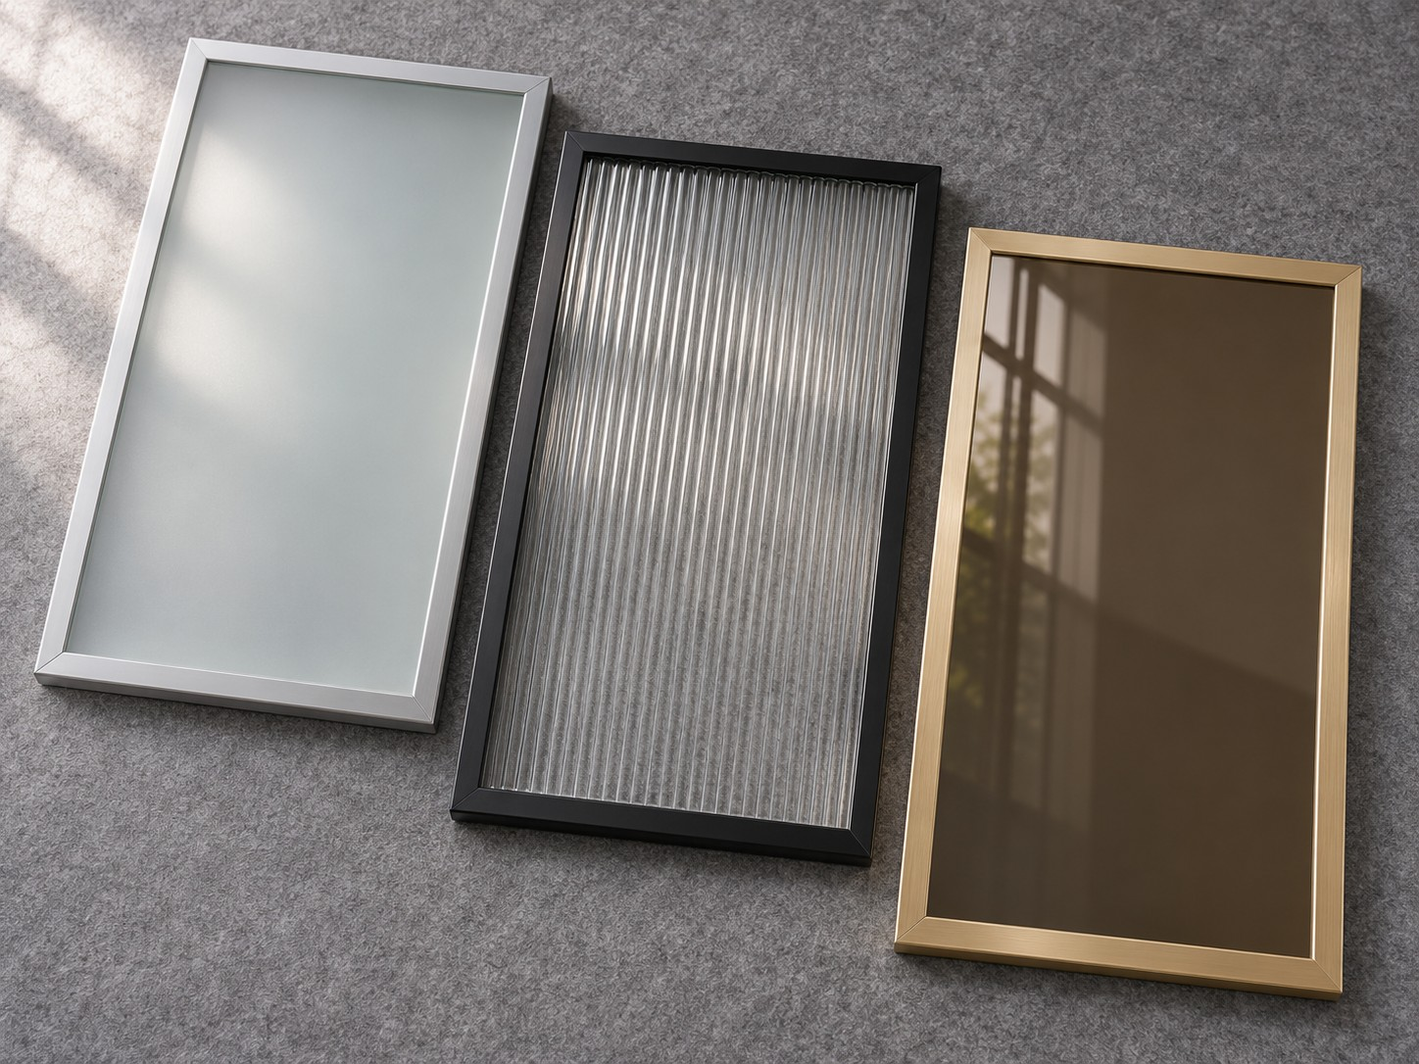
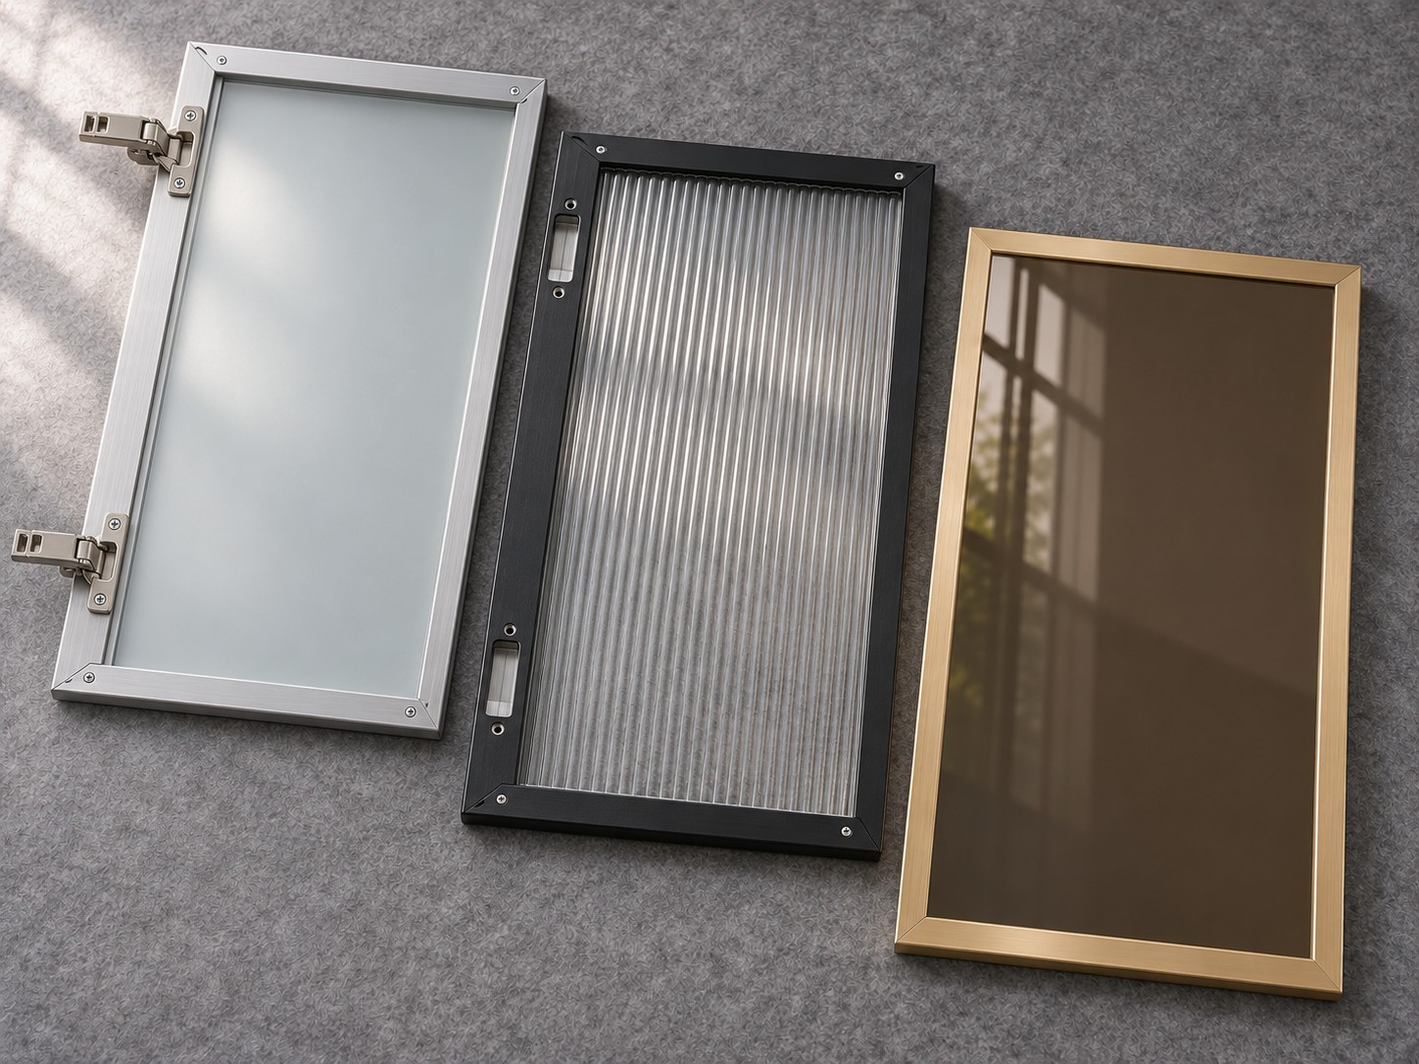
Показать установленные петли и присадку рамочных фасадов

diff --git a/src/themes/alfa-glass-home-2026/agm-supply/index.html b/src/themes/alfa-glass-home-2026/agm-supply/index.html
@@ -57,7 +57,7 @@ __AGM_WP_BODY__
 <div class="product-body"><h3>Зеркала<br>в алюминиевой раме</h3><p>Круглые и прямоугольные зеркала. Цвет и профиль рамы — в едином стиле вашего объекта.</p><div class="product-meta"><span>Круг / прямоугольник</span><span>С подсветкой и без</span></div><button type="button" class="text-link" data-product="frame">Обсудить комплектацию <svg class="icon " aria-hidden="true" focusable="false"><use href="#i-arrow"></use></svg></button></div></article><article class="product-card reveal" id="product-smart">
 <button class="product-photo" type="button" data-product="smart" aria-label="Подробнее: Smart Mirror"><img src="__AGM_ASSETS__/assets/supply-smart-hq.png" width="1448" height="1086" loading="lazy" decoding="async" alt="Smart Mirror — визуализация комплектации объекта"><span class="product-tag">SMART MIRROR</span><span class="photo-zoom"><svg class="icon " aria-hidden="true" focusable="false"><use href="#i-zoom"></use></svg></span></button>
 <div class="product-body"><h3>Умные зеркала<br>со скрытым дисплеем</h3><p>Зеркальная поверхность и встроенный экран, который становится виден при включении.</p><div class="product-meta"><span>Скрытый дисплей</span><span>Функции по ТЗ</span></div><button type="button" class="text-link" data-product="smart">Обсудить комплектацию <svg class="icon " aria-hidden="true" focusable="false"><use href="#i-arrow"></use></svg></button></div></article><article class="product-card reveal" id="product-custom">
-<button class="product-photo" type="button" data-product="custom" aria-label="Подробнее: Мебельные фасады в алюминиевой раме"><img src="__AGM_ASSETS__/assets/supply-facades-glass.jpg?v=3" width="1448" height="1086" loading="lazy" decoding="async" alt="Три фасада: серебристая рама с матовым стеклом, чёрная с рифлёным и шампань с бронзовым"><span class="product-tag">МЕБЕЛЬНЫЕ ФАСАДЫ</span><span class="photo-zoom"><svg class="icon " aria-hidden="true" focusable="false"><use href="#i-zoom"></use></svg></span></button>
+<button class="product-photo" type="button" data-product="custom" aria-label="Подробнее: Мебельные фасады в алюминиевой раме"><img src="__AGM_ASSETS__/assets/supply-facades-glass.jpg?v=4" width="1448" height="1086" loading="lazy" decoding="async" alt="Серебристый фасад с двумя петлями, чёрный с присадкой без петель и фасад цвета шампань с бронзовым стеклом"><span class="product-tag">МЕБЕЛЬНЫЕ ФАСАДЫ</span><span class="photo-zoom"><svg class="icon " aria-hidden="true" focusable="false"><use href="#i-zoom"></use></svg></span></button>
 <div class="product-body"><h3>Мебельные фасады<br>в алюминиевой раме</h3><p>Для каждой модели можно выбрать цвет профиля и стекло: матовое, рифлёное или тонированное. Укажите размеры и количество фасадов.</p><div class="product-meta"><span>По чертежам</span><span>Единая спецификация</span></div><button type="button" class="text-link" data-product="custom">Обсудить комплектацию <svg class="icon " aria-hidden="true" focusable="false"><use href="#i-arrow"></use></svg></button></div></article></div><p class="gallery-note">Изображения показывают возможное исполнение. Это визуализации, а не фотографии реализованных объектов.</p>
 </div></section>
 <section class="section section-soft" id="capabilities" aria-labelledby="features-title"><div class="container"><div class="section-heading"><div><div class="eyebrow">Понятные условия работы</div><h2 id="features-title">От спецификации<br>до поставки на объект</h2></div><p>Для комплексной поставки согласуем не только изделие, но и весь заказ: состав позиций, требования к упаковке, последовательность отгрузок и условия приёмки.</p></div><div class="features"><article class="feature-card reveal"><div class="icon-frame"><svg class="icon " aria-hidden="true" focusable="false"><use href="#i-factory"></use></svg></div><h3>Серийное производство</h3><p>Единая спецификация и согласованная комплектация для всей партии.</p></article><article class="feature-card reveal"><div class="icon-frame"><svg class="icon " aria-hidden="true" focusable="false"><use href="#i-file"></use></svg></div><h3>Тендеры и документы</h3><p>Рассмотрим требования закупки и подготовим предложение под ваш запрос.</p></article><article class="feature-card reveal"><div class="icon-frame"><svg class="icon " aria-hidden="true" focusable="false"><use href="#i-calendar"></use></svg></div><h3>Поставка по графику</h3><p>Согласуем сроки изготовления и последовательность отгрузок на объект.</p></article><article class="feature-card reveal"><div class="icon-frame"><svg class="icon " aria-hidden="true" focusable="false"><use href="#i-ruler"></use></svg></div><h3>Исполнение под проект</h3><p>Размеры, рамы, подсветка и функции — по техническому заданию.</p></article><article class="feature-card reveal"><div class="icon-frame"><svg class="icon " aria-hidden="true" focusable="false"><use href="#i-shield"></use></svg></div><h3>Контроль перед отгрузкой</h3><p>Проверка изделий и комплектности по согласованной спецификации. Требования к упаковке и маркировке уточняем до отгрузки.</p></article></div>
@@ -99,7 +99,7 @@ __AGM_WP_BODY__
 <dialog id="product-dialog" aria-labelledby="dialog-title"><button type="button" class="icon-btn dialog-close" data-close-dialog aria-label="Закрыть"><svg class="icon " aria-hidden="true" focusable="false"><use href="#i-close"></use></svg></button><div class="dialog-grid"><div class="dialog-image"><img id="dialog-image" src="__AGM_ASSETS__/assets/supply-led-hq.png" alt="" width="1448" height="1086"></div><div class="dialog-copy"><div class="eyebrow" id="dialog-tag">Вариант исполнения</div><h2 id="dialog-title">Зеркала для вашего проекта</h2><p id="dialog-description"></p><dl class="dialog-specs" id="dialog-specs"></dl><button type="button" class="btn btn-primary" id="select-product">Добавить в запрос <svg class="icon " aria-hidden="true" focusable="false"><use href="#i-arrow"></use></svg></button></div></div></dialog>
 <dialog id="privacy-dialog" aria-labelledby="privacy-title"><button type="button" class="icon-btn dialog-close" data-close-dialog aria-label="Закрыть"><svg class="icon " aria-hidden="true" focusable="false"><use href="#i-close"></use></svg></button><div class="privacy-copy"><div class="eyebrow">Предпросмотр страницы</div><h2 id="privacy-title">Обработка данных</h2><p>В автономном HTML файлы и данные формы не отправляются на сервер. Можно скачать запрос или открыть почтовую программу; отправка письма выполняется вами.</p><p>Перед запуском на домене владелец сайта должен подключить действующую политику обработки персональных данных и отдельный текст согласия. После их настройки форма покажет ссылки на эти документы.</p><p>Этот экран — пояснение к предпросмотру, а не юридическая политика компании.</p><button type="button" class="btn btn-secondary" data-close-dialog>Вернуться к странице</button></div></dialog>
 <div class="toast" id="toast" role="status" aria-live="polite"></div>
-<script id="product-data" type="application/json">[{"id": "led", "tag": "LED MIRROR", "title": "Зеркала<br>с подсветкой", "plain": "Зеркала с подсветкой", "img": "supply-led-hq.png", "desc": "Световой акцент для ванных комнат, гостиничных номеров и общественных пространств.", "tags": ["Форма под проект", "LED-подсветка"], "details": "Зеркала с подсветкой для серийной комплектации объекта. Форму, размеры, расположение света, управление и дополнительные функции согласуем до запуска партии.", "specs": [["Исполнение", "По размерам и чертежам"], ["Подсветка", "Фронтальная / контурная"], ["Управление", "По спецификации"], ["Количество", "По спецификации"]]}, {"id": "frame", "tag": "ALUMINIUM", "title": "Зеркала<br>в алюминиевой раме", "plain": "Зеркала в алюминиевой раме", "img": "supply-frame-hq.png", "desc": "Круглые и прямоугольные зеркала. Цвет и профиль рамы — в едином стиле вашего объекта.", "tags": ["Круг / прямоугольник", "С подсветкой и без"], "details": "Зеркала в алюминиевой раме для жилых комплексов, апартаментов и гостиниц. Утверждаем профиль, цвет, форму, размеры и вариант подсветки для каждой позиции.", "specs": [["Форма", "Круглая / прямоугольная"], ["Рама", "Алюминиевый профиль"], ["Подсветка", "С подсветкой или без"], ["Отделка", "По согласованному образцу"]]}, {"id": "smart", "tag": "SMART MIRROR", "title": "Умные зеркала<br>со скрытым дисплеем", "plain": "Smart Mirror", "img": "supply-smart-hq.png", "desc": "Зеркальная поверхность и встроенный экран, который становится виден при включении.", "tags": ["Скрытый дисплей", "Функции по ТЗ"], "details": "Smart Mirror объединяет зеркало и дисплей за зеркальной поверхностью. Диагональ экрана, интерфейс, приложения и управление подбираем под техническое задание. ОС и совместимость с устройствами Android / iOS подтверждаются для выбранной комплектации.", "specs": [["Экран", "За зеркальной поверхностью"], ["Интерфейс", "По задаче проекта"], ["Android / iOS", "Совместимость уточняется"], ["Поставка", "После согласования комплектации"]]}, {"id": "custom", "tag": "МЕБЕЛЬНЫЕ ФАСАДЫ", "title": "Мебельные фасады<br>в алюминиевой раме", "plain": "Мебельные фасады в алюминиевой раме", "img": "supply-facades-glass.jpg?v=3", "desc": "Для каждой модели можно выбрать цвет профиля и стекло: матовое, рифлёное или тонированное. Укажите размеры и количество фасадов.", "tags": ["По чертежам", "Единая спецификация"], "details": "В одну партию можно включить фасады разных размеров и сочетаний профиля со стеклом. Состав партии, упаковку, маркировку и порядок отгрузок фиксируем при согласовании заказа.", "specs": [["Размеры", "По проектной документации"], ["Комплектация", "Несколько позиций в партии"], ["Упаковка", "Согласуем под поставку"], ["Отгрузка", "Целиком или по этапам"]]}]</script>
+<script id="product-data" type="application/json">[{"id": "led", "tag": "LED MIRROR", "title": "Зеркала<br>с подсветкой", "plain": "Зеркала с подсветкой", "img": "supply-led-hq.png", "desc": "Световой акцент для ванных комнат, гостиничных номеров и общественных пространств.", "tags": ["Форма под проект", "LED-подсветка"], "details": "Зеркала с подсветкой для серийной комплектации объекта. Форму, размеры, расположение света, управление и дополнительные функции согласуем до запуска партии.", "specs": [["Исполнение", "По размерам и чертежам"], ["Подсветка", "Фронтальная / контурная"], ["Управление", "По спецификации"], ["Количество", "По спецификации"]]}, {"id": "frame", "tag": "ALUMINIUM", "title": "Зеркала<br>в алюминиевой раме", "plain": "Зеркала в алюминиевой раме", "img": "supply-frame-hq.png", "desc": "Круглые и прямоугольные зеркала. Цвет и профиль рамы — в едином стиле вашего объекта.", "tags": ["Круг / прямоугольник", "С подсветкой и без"], "details": "Зеркала в алюминиевой раме для жилых комплексов, апартаментов и гостиниц. Утверждаем профиль, цвет, форму, размеры и вариант подсветки для каждой позиции.", "specs": [["Форма", "Круглая / прямоугольная"], ["Рама", "Алюминиевый профиль"], ["Подсветка", "С подсветкой или без"], ["Отделка", "По согласованному образцу"]]}, {"id": "smart", "tag": "SMART MIRROR", "title": "Умные зеркала<br>со скрытым дисплеем", "plain": "Smart Mirror", "img": "supply-smart-hq.png", "desc": "Зеркальная поверхность и встроенный экран, который становится виден при включении.", "tags": ["Скрытый дисплей", "Функции по ТЗ"], "details": "Smart Mirror объединяет зеркало и дисплей за зеркальной поверхностью. Диагональ экрана, интерфейс, приложения и управление подбираем под техническое задание. ОС и совместимость с устройствами Android / iOS подтверждаются для выбранной комплектации.", "specs": [["Экран", "За зеркальной поверхностью"], ["Интерфейс", "По задаче проекта"], ["Android / iOS", "Совместимость уточняется"], ["Поставка", "После согласования комплектации"]]}, {"id": "custom", "tag": "МЕБЕЛЬНЫЕ ФАСАДЫ", "title": "Мебельные фасады<br>в алюминиевой раме", "plain": "Мебельные фасады в алюминиевой раме", "img": "supply-facades-glass.jpg?v=4", "desc": "Для каждой модели можно выбрать цвет профиля и стекло: матовое, рифлёное или тонированное. Укажите размеры и количество фасадов.", "tags": ["По чертежам", "Единая спецификация"], "details": "В одну партию можно включить фасады разных размеров и сочетаний профиля со стеклом. Состав партии, упаковку, маркировку и порядок отгрузок фиксируем при согласовании заказа.", "specs": [["Размеры", "По проектной документации"], ["Комплектация", "Несколько позиций в партии"], ["Упаковка", "Согласуем под поставку"], ["Отгрузка", "Целиком или по этапам"]]}]</script>
 <script defer src="__AGM_ASSETS__/js/app.js"></script>
 __AGM_WP_FOOTER__
 </body></html>
